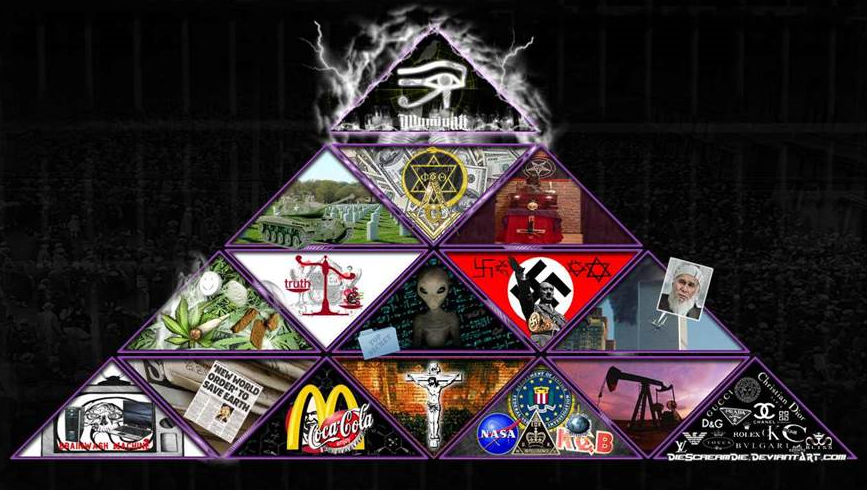
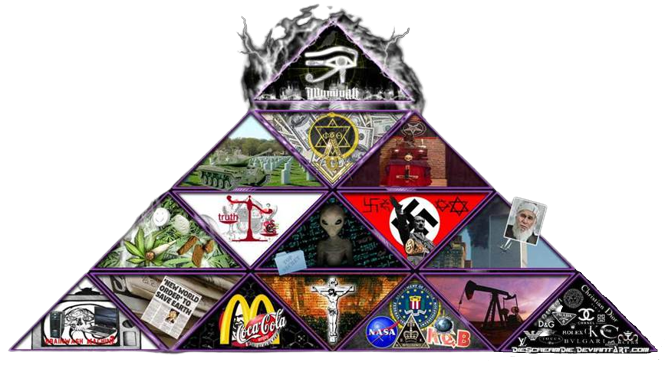
Updated background picture, and added new text

diff --git a/index.html b/index.html
@@ -21,8 +21,11 @@
 
     <img id="background" src="assets/background.png">
 
-    <p>En konspirasjon er ofte en hemmelig sammenslutning for å skade noen, eller holde sannheten skjult for
-        allmennheten.</p>
+    <p>Hva er egentlig en Konspirasjonsteori? Det er lett å tenke at en konspirasjonsteori er det samme som legender
+        eller myter, men det er det ikkje. Legenden om sjøormen i Seljordsvannet er ikke en
+        konspirasjonsteori. Men vist man hevder at politikere og staten i Seljord sprer falske historier om
+        folk som har sett sjøormen, eller til og med lager falske observasjoner ved hjelp av maskiner og får lokalavisa
+        til å være med på å dette for å generere mer turisttrafikk til kommunen. Då er det en konspirasjonsteori.</p>
 
     <div class="conspiracy">
         <a href="./twintowers.html">
@@ -41,17 +44,8 @@
         </a>
     </div>
 
-    <br>
-    <br>
-    <br>
-    <br>
-
     <p>Konsekvensene av konspirasjonsteorier kan være store. Et eksempel kan være at folk prøver å brenne ned plasser
-        som Auschwitz, fordi de tror at staten har lagt det til.</p>
-
-    <br>
-    <br>
-    <br>
+        som Auschwitz, fordi de tror at staten har funnet det opp.</p>
 
     <div class="footer">
         <i class="fa fa-code-fork" style="font-size:40px;"></i> Programert av Odin

diff --git a/assets/style.css b/assets/style.css
@@ -1,9 +1,8 @@
-/* List select */
+/* P */
 
-#list {
-    color: white;
-    margin-top: 25px;
-    margin-left: 1150px;
+p {
+    margin-top: 120px;
+    margin-bottom: 120px;
 }
 
 /* Body */
@@ -28,7 +27,6 @@ body {
 
 #background {
     margin-top: 50px;
-    margin-bottom: 100px;
     width: 1000px;
 }
 
@@ -109,7 +107,7 @@ p {
 /* Footer */
 
 .footer {
-    padding-top: 40px;
+    padding-top: 30px;
     background-color: black;
     color: white;
     font-size: 20px;
